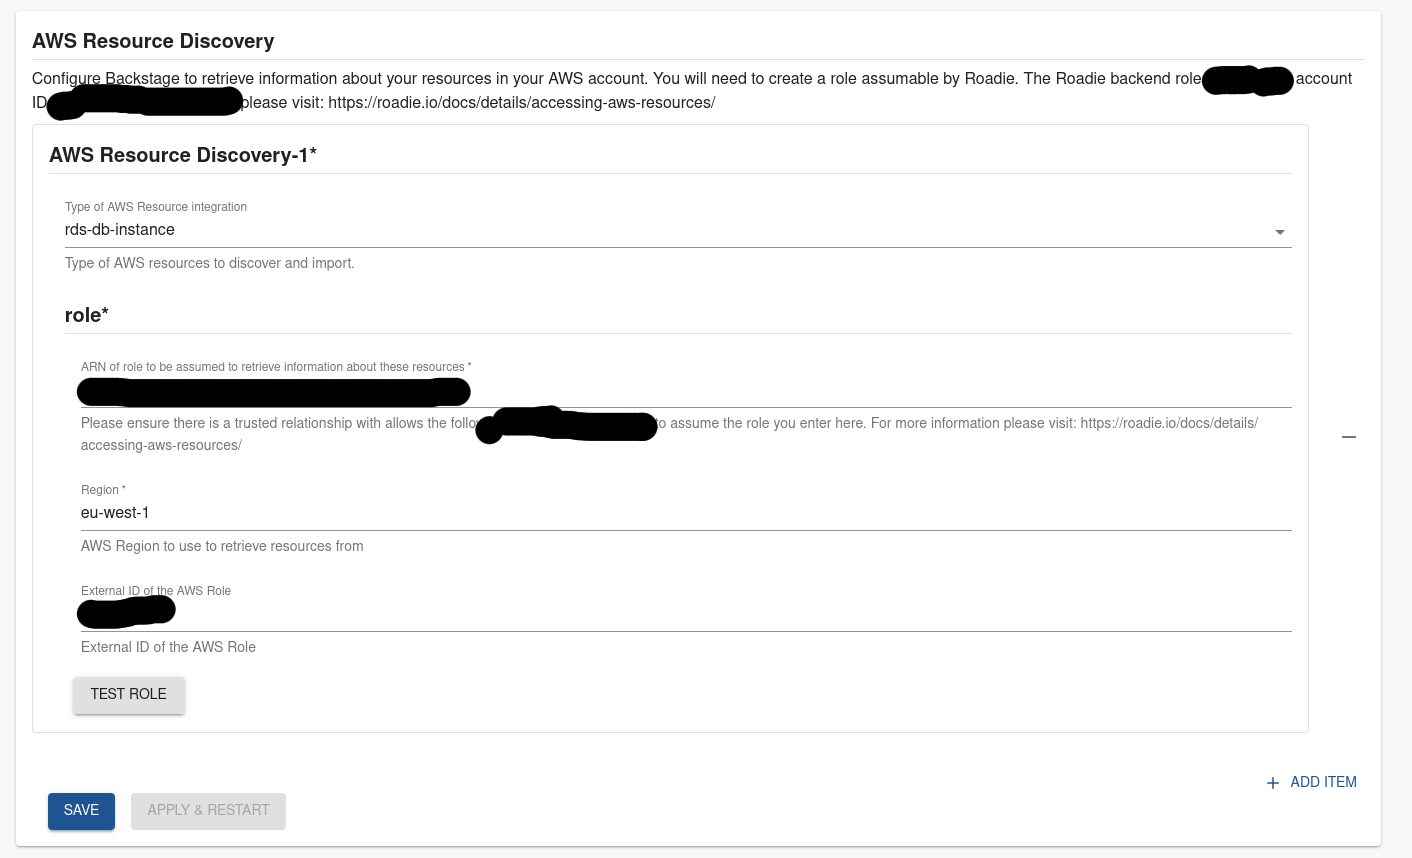
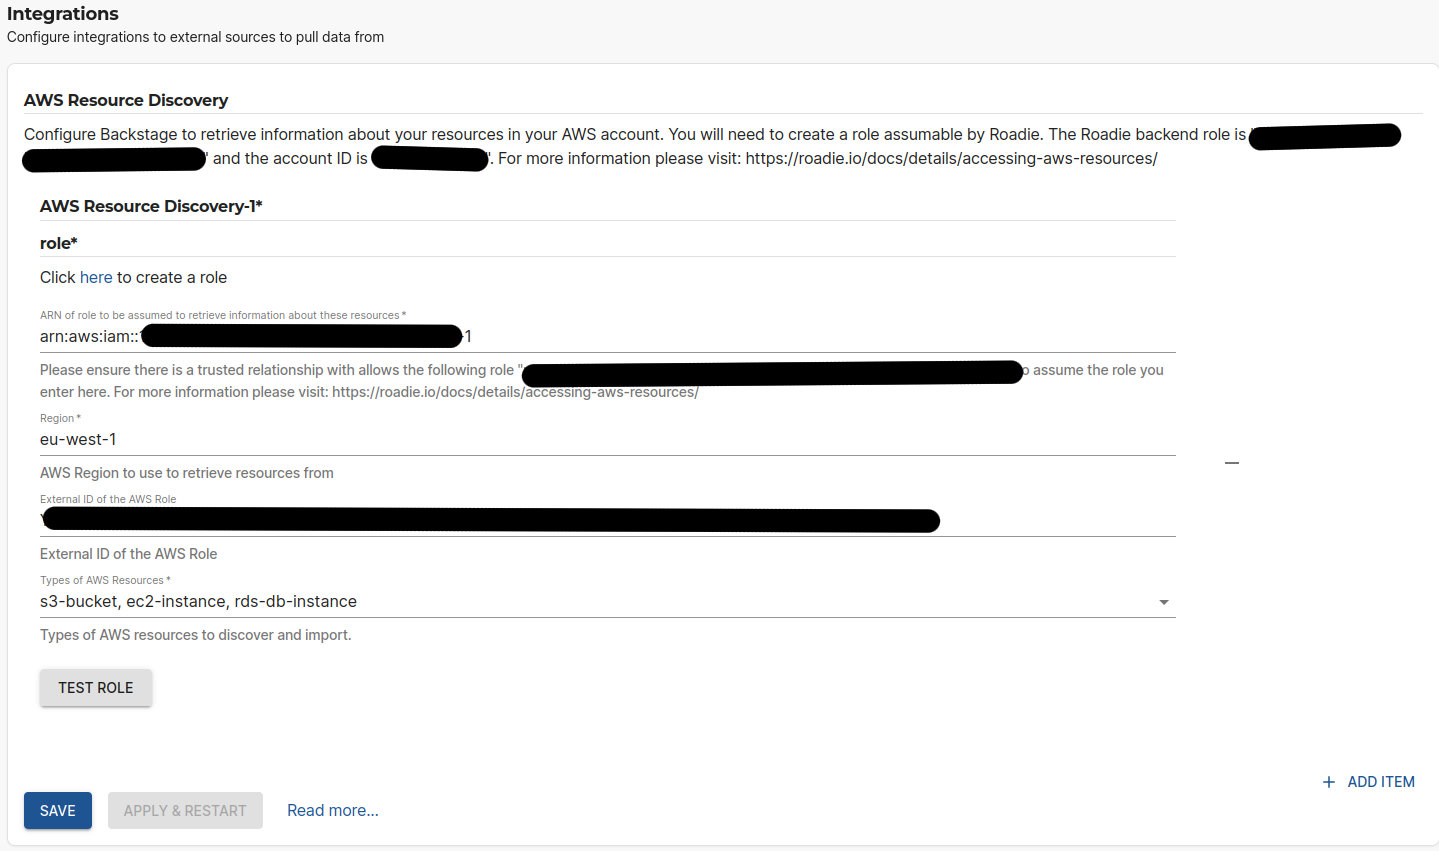
Add docs for relationships.

diff --git a/content/docs/integrations/aws-resources/index.md b/content/docs/integrations/aws-resources/index.md
@@ -35,12 +35,11 @@ For quick experimentation, you can use `AWS<ResourceType>ReadOnlyAccess` policie
 ![AWS Resources config](aws-resources-config.png)
 
 On the AWS Resources settings page `Administration > Settings > AWS Resources` in Roadie click `Add Item`. 
-Here you can select the type of resource you want to be ingested. The possible options are listed in the table at the bottom of the page.
+Here you can define the role (created in step 2 above) to be used to ingest these resources, as well as the AWS region to use and the optional External ID configured for the role.
 
-After choosing a resource, you need to define the role (created in step 2 above) to be used to ingest these resources, as well as the AWS region to use and the optional External ID configured for the role 
+After the role configuration is done, you can click the 'Test Role' button to check if the role is assumable by Roadie. Finally,  you can select the types of resources you want to be ingested. The possible options are listed in the table at the bottom of the page.
 
-After the role configuration is done, you can click the 'Test Role' button to check if the role is assumable by Roadie.
-
+You can add multiple integrations towards multiple AWS accounts or regions.
 
 ## Resources and needed permissions
 
@@ -57,7 +56,6 @@ The table below lists the permissions required of the assumable role in order fo
 | organization-account | AWS Organization Accounts                 | `organizations:ListAccounts`, `organizations:ListTagsForResource`              |
 
 
-The tagging functionality of AWS is used to determine the owner of each resource. By default, Roadie uses tag with a key `owner` to determine what value to use for the owner field of the generated entity. 
 
 You can expand the code snippet below to show an example policy document for the AWS role. You can add additional statement blocks into the policy document where multiple role policy actions are required.
 
@@ -81,3 +79,17 @@ You can expand the code snippet below to show an example policy document for the
 }
 ```
 </details>
+
+
+## Additional information
+
+The resource providers enhance their functionality to allow additional metadata inclusion to the provided entities. This is done by using tags within the AWS resource. 
+The tagging functionality of AWS is used to determine the owner of each resource. By default, Roadie uses tag with a key `owner` to determine what value to use for the owner field of the generated entity.
+
+You can additionally use the following tags to indicate relationships within the catalog:
+`system` -> To indicate that this AWS resources is part of a system (expected value: fully qualified name)
+`domain` -> To indicate that this AWS resources is part of a system (expected value: fully qualified name)
+`dependsOn`  -> To indicate that the resource depends on something (expected value: comma separated list of fully qualified names)
+`dependencyOf` -> To indicate that the resource is a dependency of something  (expected value: comma separated list of fully qualified names)
+
+See more information about relationships in [Backstage docs](https://backstage.io/docs/features/software-catalog/well-known-relations).
